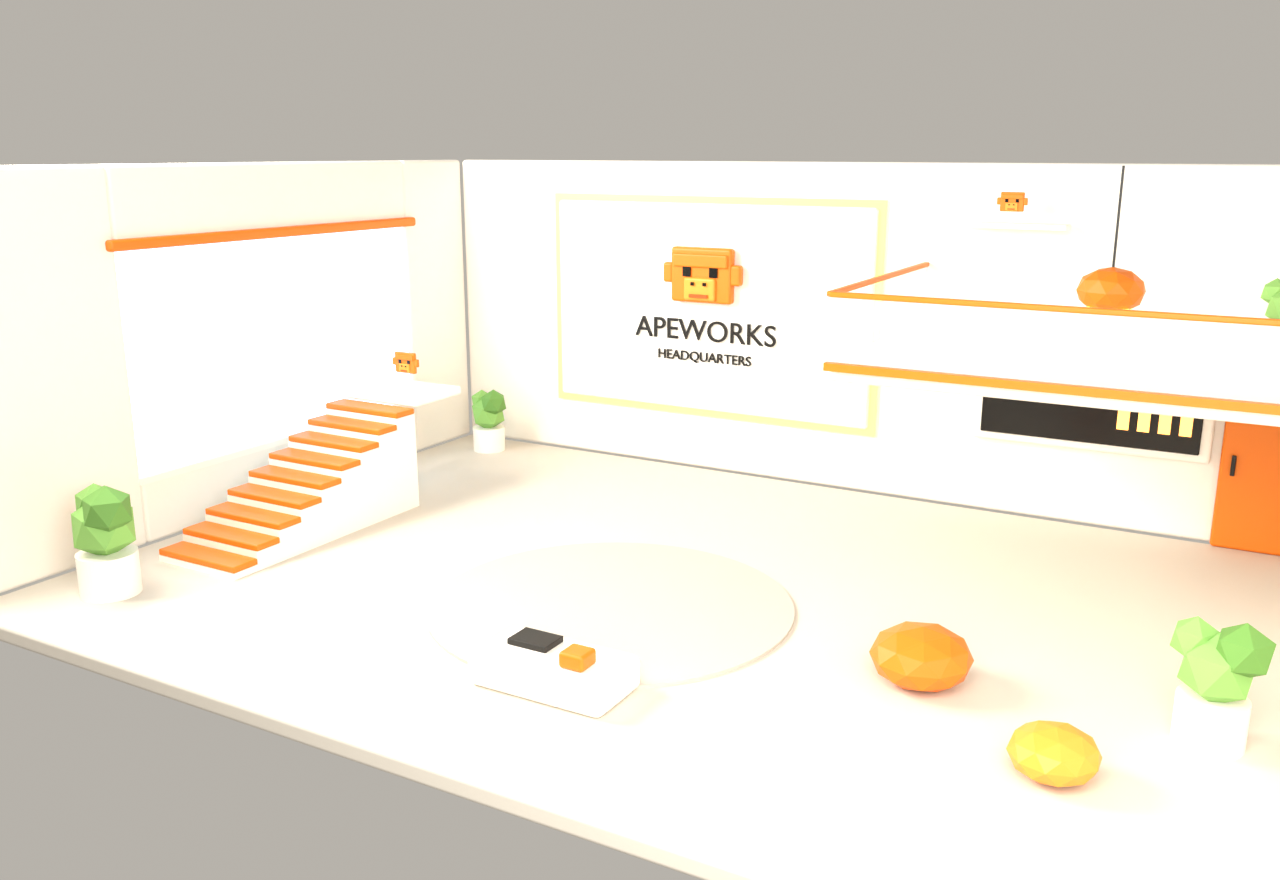
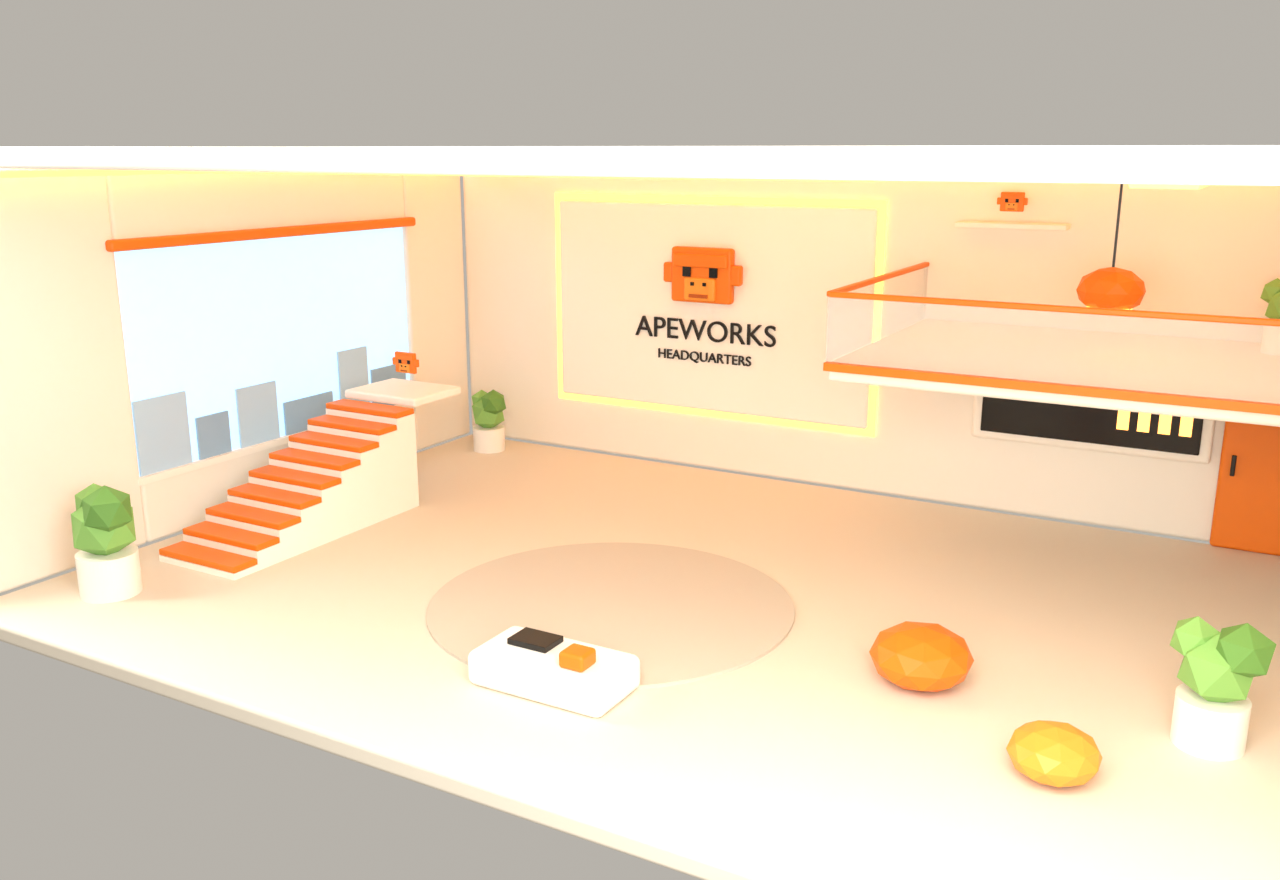
Comp-quality lighting and grade for the APEWORKS HQ room
- Room GLB: ceiling slab with warm emissive cove strips + perimeter rim glow,
  backlit right-wall panel, blocky city skyline behind the window glass,
  warmer floor/wall palette (CEIL_* meshes skip shadow casting in-app)
- Scene: N8AO ambient occlusion, soft bloom picking up the cove/panel glow,
  gentle vignette, PCFSoft shadows, warm local environment lightformers,
  balanced ACES exposure
- Light rig: warmer key/window sun, softer fill, orange bounce accents at the
  logo wall, right cove panel and mezzanine lamp

Claude-Session: https://claude.ai/code/session_01VbNPaMUmq4GHac9VRJb58d

diff --git a/agent-platform/frontend/src/components/world/WorkspaceLighting.tsx b/agent-platform/frontend/src/components/world/WorkspaceLighting.tsx
@@ -18,16 +18,16 @@ export function WorkspaceLighting({ room, quality = "high" }: { room: RoomConfig
 
   return (
     <>
-      <ambientLight intensity={0.65} />
+      <ambientLight intensity={0.34} color="#fff3e2" />
 
       {/* broad warm ceiling area light */}
-      <rectAreaLight ref={ceil} position={[0, H - 0.4, 0]} intensity={3.4} width={9} height={6} color="#fff1df" />
+      <rectAreaLight ref={ceil} position={[0, H - 0.4, 0]} intensity={2.6} width={10} height={7} color="#ffedd6" />
 
-      {/* one shadow-casting key from above-front */}
+      {/* one shadow-casting key from above-front — soft, sun-warm */}
       <directionalLight
         position={[5, H + 3, 6]}
-        intensity={1.4}
-        color="#ffe9cf"
+        intensity={1.7}
+        color="#ffe3c0"
         castShadow
         shadow-mapSize-width={mapSize}
         shadow-mapSize-height={mapSize}
@@ -38,14 +38,17 @@ export function WorkspaceLighting({ room, quality = "high" }: { room: RoomConfig
         shadow-camera-top={12}
         shadow-camera-bottom={-12}
         shadow-bias={-0.0004}
+        shadow-radius={7}
       />
 
-      {/* warm daylight from the window side */}
-      <directionalLight position={[-8, 4, 2]} intensity={2.0} color="#fff2e0" />
-      {/* soft fill */}
-      <directionalLight position={[4, 2.5, 4]} intensity={1.1} color="#ffffff" />
-      {/* orange accent */}
-      <pointLight position={[0, 3.2, -room.size.depth / 2 + 0.6]} intensity={0.4} color="#FF9A3C" distance={9} />
+      {/* warm daylight streaming from the window side */}
+      <directionalLight position={[-8, 4, 2]} intensity={1.6} color="#ffeecf" />
+      {/* soft neutral fill */}
+      <directionalLight position={[4, 2.5, 4]} intensity={0.75} color="#fff8ef" />
+      {/* orange bounce accents: logo wall + right cove panel + mezzanine lamp */}
+      <pointLight position={[-2.2, 3.0, -room.size.depth / 2 + 0.9]} intensity={0.7} color="#FF9A3C" distance={8} />
+      <pointLight position={[room.size.width / 2 - 0.8, 2.9, 1.4]} intensity={0.6} color="#FFB45C" distance={7} />
+      <pointLight position={[4.6, 3.6, -3.0]} intensity={0.8} color="#FF9A3C" distance={5} />
     </>
   );
 }

diff --git a/agent-platform/frontend/src/components/world/WorkspacePreviewScene.tsx b/agent-platform/frontend/src/components/world/WorkspacePreviewScene.tsx
@@ -1,7 +1,8 @@
 "use client";
 import { useMemo } from "react";
 import { Canvas } from "@react-three/fiber";
-import { PerspectiveCamera, OrbitControls } from "@react-three/drei";
+import { PerspectiveCamera, OrbitControls, Environment, Lightformer } from "@react-three/drei";
+import { EffectComposer, N8AO, Bloom, Vignette } from "@react-three/postprocessing";
 import * as THREE from "three";
 import { WorkspaceRoom } from "./WorkspaceRoom";
 import { RoomCameraController, type CamShot } from "./RoomCameraController";
@@ -36,9 +37,10 @@ export function WorkspacePreviewScene({
       gl={{ antialias: true, alpha: false, preserveDrawingBuffer: true, powerPreference: "high-performance" }}
       onCreated={({ gl, scene }) => {
         gl.toneMapping = THREE.ACESFilmicToneMapping;
-        gl.toneMappingExposure = 1.0;
+        gl.toneMappingExposure = 0.94;
         gl.outputColorSpace = THREE.SRGBColorSpace;
-        scene.background = new THREE.Color("#ECE6DB");
+        gl.shadowMap.type = THREE.PCFSoftShadowMap;
+        scene.background = new THREE.Color("#EFE7D9");
       }}
     >
       <PerspectiveCamera makeDefault fov={overview.fov} position={overview.position} near={0.1} far={100} />
@@ -46,10 +48,26 @@ export function WorkspacePreviewScene({
         ? <OrbitControls target={overview.target} enablePan={false} minPolarAngle={0.3} maxPolarAngle={1.45} />
         : <RoomCameraController overview={overview} focus={focus} fov={overview.fov} />}
 
+      {/* warm wrap-around studio env for richer material response (local, no HDR) */}
+      <Environment resolution={256} frames={1}>
+        <Lightformer intensity={1.6} position={[-6, 6, 5]} scale={[7, 6, 1]} color="#fff4e4" target={[0, 1.6, 0]} />
+        <Lightformer intensity={0.7} position={[7, 3, 3]} scale={[5, 5, 1]} color="#ffd9b0" target={[0, 1.6, 0]} />
+        <Lightformer intensity={0.5} position={[0, 3, 9]} scale={[12, 7, 1]} color="#fff0dc" target={[0, 1.6, 0]} />
+      </Environment>
+
       <WorkspaceRoom
         id={room.id} type={type} agents={agents} selectedAgentId={selectedAgentId}
         onAgentClick={onAgentClick} onCreateAgent={onCreateAgent} quality={quality}
       />
+
+      {/* comp-quality grade: crevice AO + soft glow on the cove strips + vignette */}
+      {quality !== "low" && (
+        <EffectComposer enableNormalPass={false}>
+          <N8AO aoRadius={0.55} intensity={1.7} distanceFalloff={0.9} quality={quality === "high" ? "high" : "medium"} />
+          <Bloom intensity={0.32} luminanceThreshold={1.1} luminanceSmoothing={0.25} mipmapBlur />
+          <Vignette offset={0.28} darkness={0.5} eskil={false} />
+        </EffectComposer>
+      )}
     </Canvas>
   );
 }

diff --git a/agent-platform/frontend/src/components/world/ApeworksShell.tsx b/agent-platform/frontend/src/components/world/ApeworksShell.tsx
@@ -14,7 +14,8 @@ export function ApeworksShell() {
   const room = useMemo(() => {
     scene.traverse((o) => {
       if ((o as THREE.Mesh).isMesh) {
-        o.castShadow = true;
+        // the ceiling is visual only — casting shadows would black out the room
+        o.castShadow = !o.name.startsWith("CEIL_");
         o.receiveShadow = true;
       }
     });

diff --git a/agent-platform/3d/apeworks_room_build.py b/agent-platform/3d/apeworks_room_build.py
@@ -35,17 +35,19 @@ def mat(name, hexs, rough=0.55, emis=0.0, alpha=1.0):
     return m
 
 M = {
-    "wall":     mat("wall", "#F6F1E9", 0.62),
-    "wallWarm": mat("wallWarm", "#FCF7EF", 0.6),
-    "floor":    mat("floor", "#D9D2C7", 0.7),
+    "wall":     mat("wall", "#F7F1E7", 0.62),
+    "wallWarm": mat("wallWarm", "#FDF8EF", 0.6),
+    "floor":    mat("floor", "#E3D9C9", 0.68),
     "orange":   mat("orange", "#EE7F1C", 0.45),
     "orangeLit":mat("orangeLit", "#FF9A3C", 0.4, emis=2.2),
     "charcoal": mat("charcoal", "#1E1B18", 0.4),
     "screen":   mat("screen", "#141210", 0.25),
     "amber":    mat("amber", "#FFB45C", 0.4, emis=3.0),
-    "sky":      mat("sky", "#AFD4EE", 0.4, emis=1.6),
+    "sky":      mat("sky", "#A9CFEA", 0.4, emis=1.0),
     "glass":    mat("glass", "#DCE9F0", 0.08, alpha=0.22),
-    "rug":      mat("rug", "#C9C2B8", 0.9),
+    "rug":      mat("rug", "#CFC6B8", 0.9),
+    "city":     mat("city", "#8FA8BB", 0.6, emis=0.25),
+    "cityFar":  mat("cityFar", "#A9BFCE", 0.6, emis=0.3),
     "plant":    mat("plant", "#8FBF6B", 0.7),
     "plantD":   mat("plantD", "#6E9E4E", 0.7),
     "pot":      mat("pot", "#FBF6EE", 0.5),
@@ -106,9 +108,14 @@ box("WALL_L_BACK",  (0.3, H, D/2 - 3.6), (LX, H/2, -D/2 + (D/2 - 3.6)/2), M["wal
 box("WALL_L_FRONT", (0.3, H, D/2 - 2.4), (LX, H/2, D/2 - (D/2 - 2.4)/2), M["wall"], 0.06)
 box("WALL_L_SILL",  (0.3, 0.95, 6.0), (LX, 0.475, -0.6), M["wall"], 0.06)
 box("WALL_L_HEAD",  (0.3, H - 4.25, 6.0), (LX, (H + 4.25)/2, -0.6), M["wall"], 0.06)
-# window: frame + sky glow + orange roller bar (reference)
+# window: frame + sky glow + blocky skyline silhouette + orange roller bar
 box("WINDOW_FRAME_B", (0.14, 0.1, 6.1), (LX + 0.1, 0.95, -0.6), M["wallWarm"])
 box("WINDOW_SKY", (0.06, 3.3, 6.0), (LX + 0.02, 2.6, -0.6), M["sky"])
+# low distant skyline hugging the bottom third of the glass
+for i, (bw, bh, bz) in enumerate(((0.9, 0.8, -3.0), (0.7, 1.25, -2.1), (1.1, 0.6, -1.0),
+                                  (0.8, 1.0, 0.1), (0.6, 0.7, 1.0), (0.9, 1.15, 1.9))):
+    m = M["city"] if i % 2 == 0 else M["cityFar"]
+    box(f"CITY_{i+1}", (0.05, bh, bw), (LX + 0.06, 0.95 + bh/2, bz), m)
 box("WINDOW_ROLLER", (0.22, 0.16, 6.3), (LX + 0.16, 4.32, -0.6), M["orange"], 0.05)
 
 # ── logo wall (back, left-of-center): raised panel + ape mark + wordmark ─────
@@ -199,6 +206,22 @@ plant("PLANT_WIN", (-6.4, 0, -4.4), 1.0)
 # shelf on the mezzanine back wall with a mini ape
 box("MEZZ_SHELF", (1.6, 0.08, 0.4), (2.9, MY + 1.5, BZ + 0.25), M["wallWarm"], 0.02)
 ape_mark(2.9, MY + 1.85, BZ + 0.35, 0.34, name="SHELF_APE")
+
+# ── ceiling with warm light coves (no shadow casting in-app: CEIL_* names) ───
+box("CEIL_SLAB", (W, 0.22, D), (0, H + 0.11, 0), M["wall"], 0.05)
+# recessed cove troughs with emissive warm strips (the reference's glow lines)
+for name, dims, pos in (
+    ("CEIL_COVE_1", (9.0, 0.1, 0.5), (-1.5, H - 0.05, -3.4)),
+    ("CEIL_COVE_2", (9.0, 0.1, 0.5), (-1.5, H - 0.05, 1.6)),
+    ("CEIL_COVE_3", (0.5, 0.1, 7.0), (5.6, H - 0.05, -0.8)),
+):
+    box(name, dims, pos, M["amber"])
+# perimeter cove glow where walls meet the ceiling
+box("CEIL_RIM_BACK", (W - 0.6, 0.08, 0.12), (0, H - 0.1, -D/2 + 0.28), M["amber"])
+box("CEIL_RIM_LEFT", (0.12, 0.08, D - 0.6), (-W/2 + 0.28, H - 0.1, 0), M["amber"])
+# backlit rounded panel on the right wall (reference cove panel)
+box("RWALL_PANEL", (0.12, 2.6, 5.2), (W/2 + 0.03, 2.9, 1.4), M["wallWarm"], 0.06)
+box("RWALL_GLOW", (0.05, 2.84, 5.44), (W/2 + 0.1, 2.9, 1.4), M["amber"])
 
 # ── agent slots (empties; the app parents workstations + apes here) ──────────
 # 5 per floor max: ground floor slots 1–4 + mezzanine slot 5